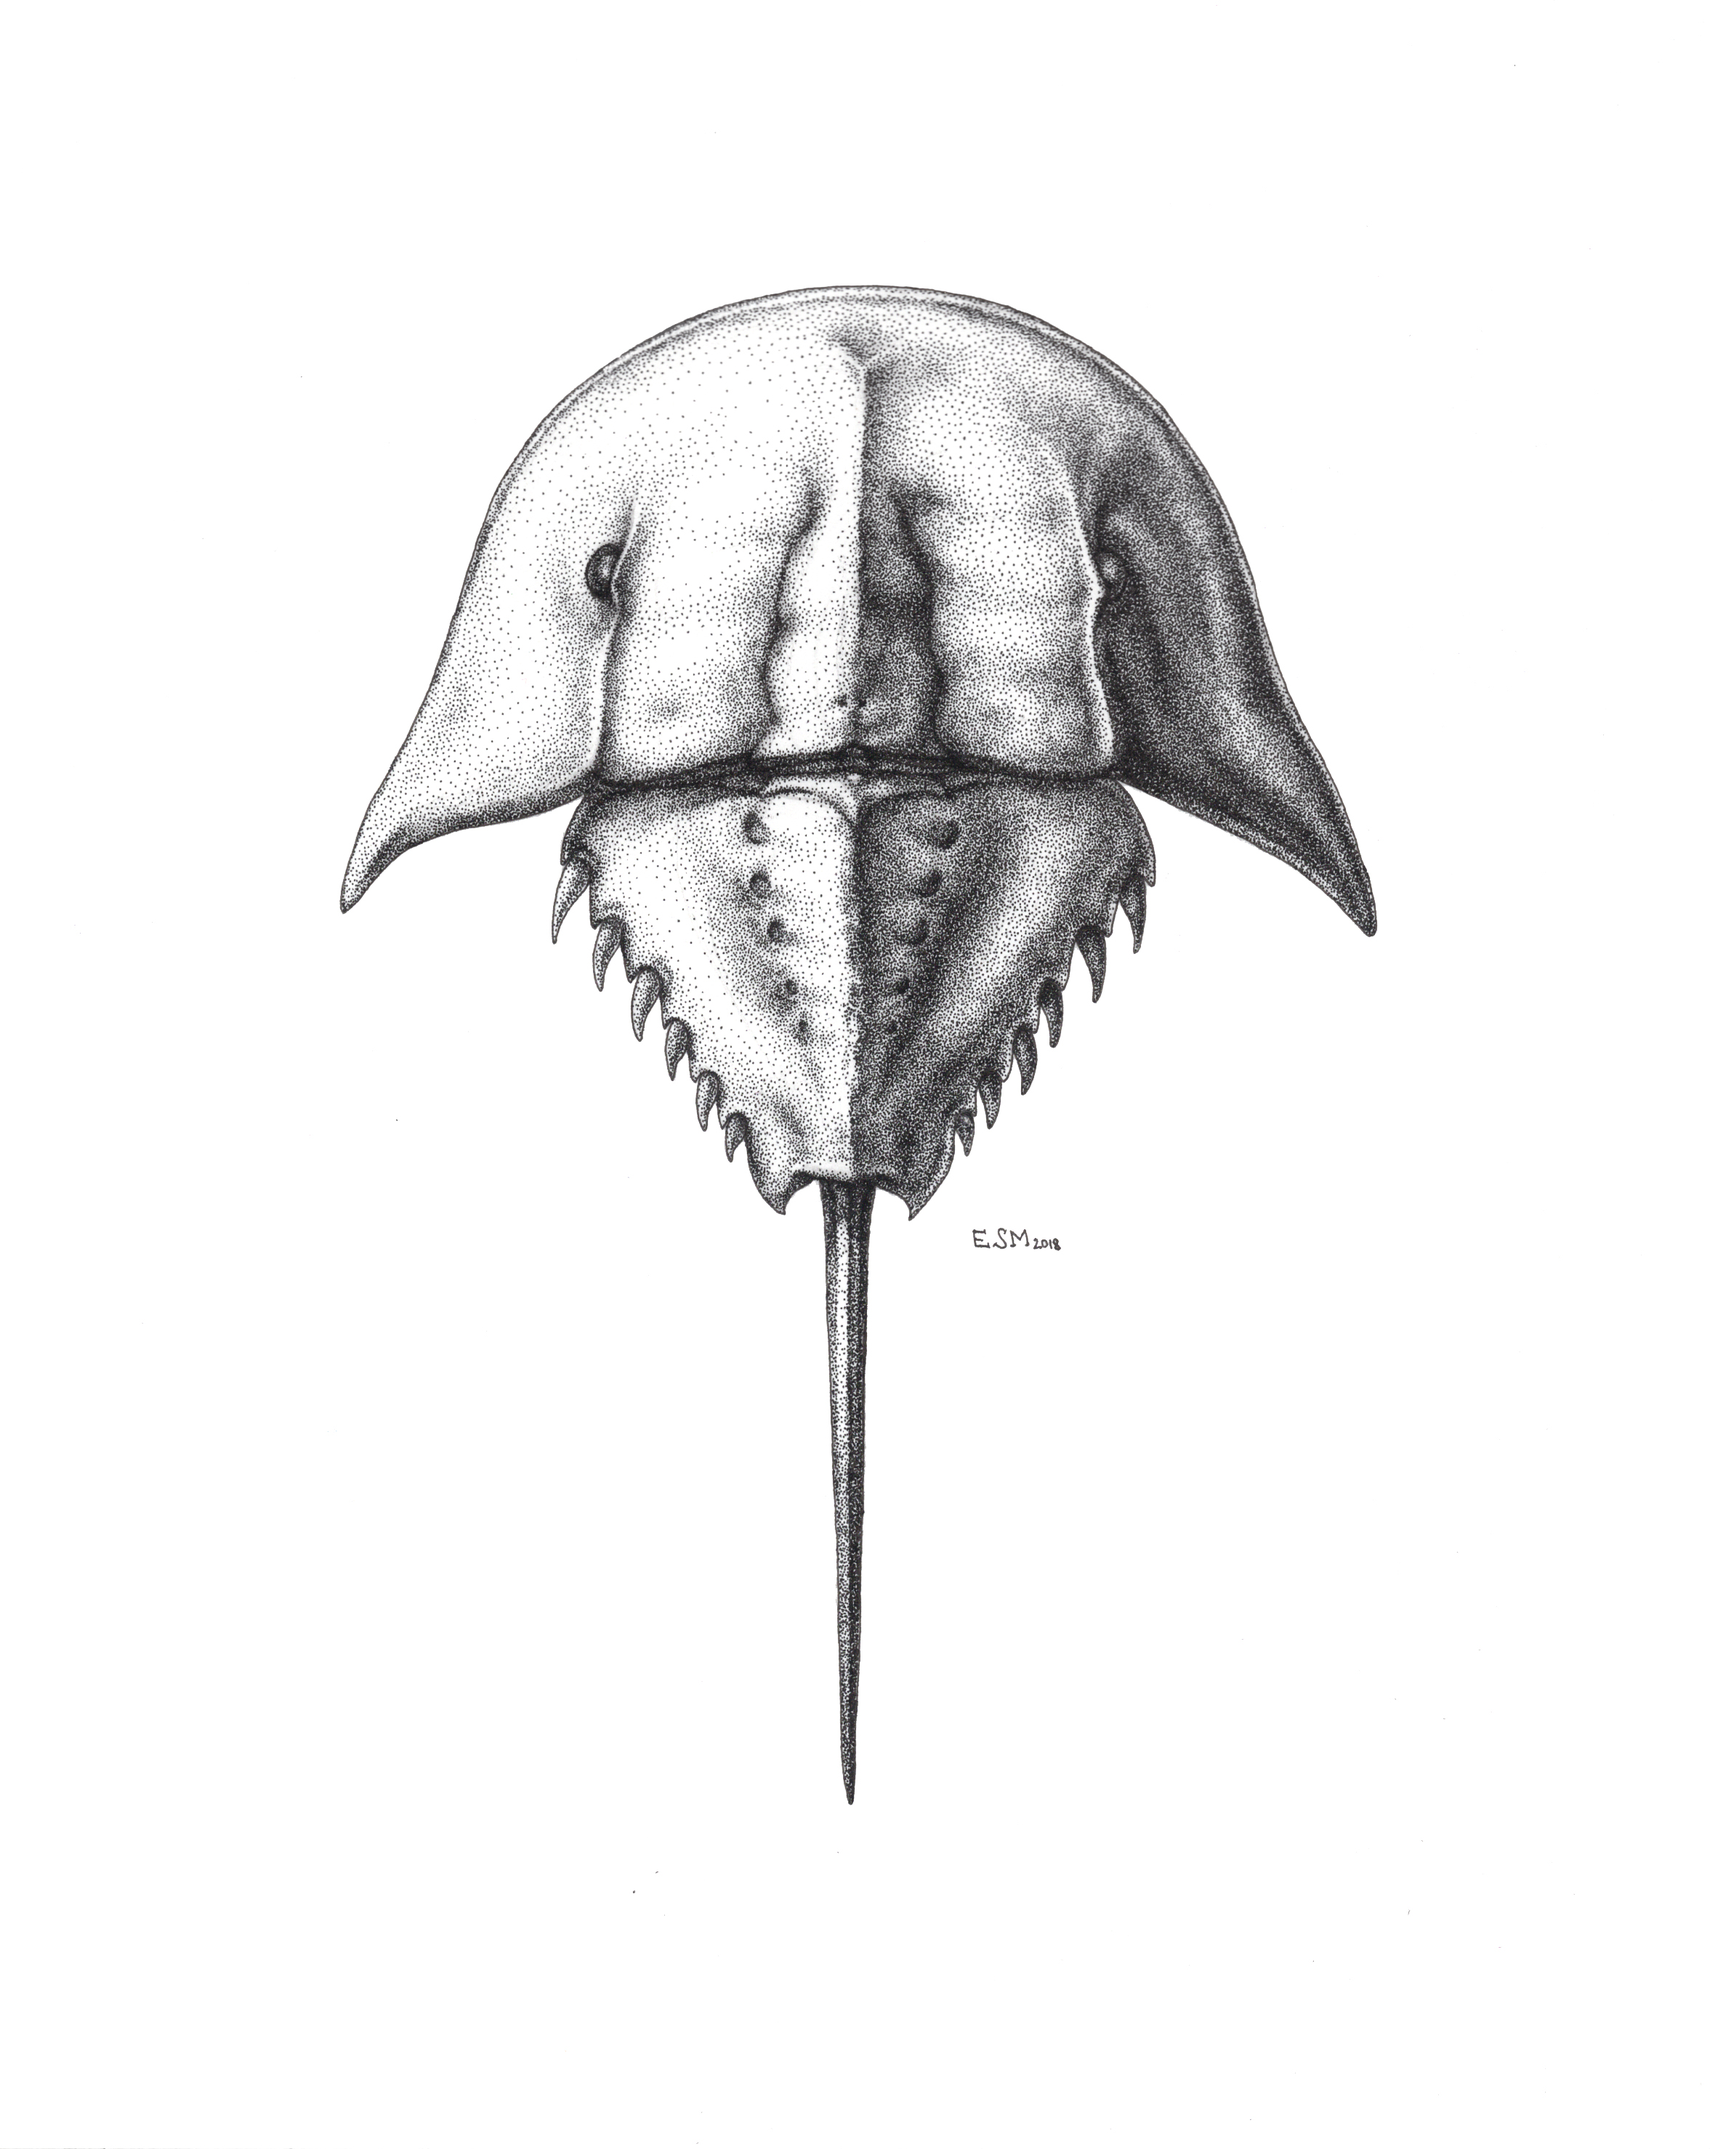
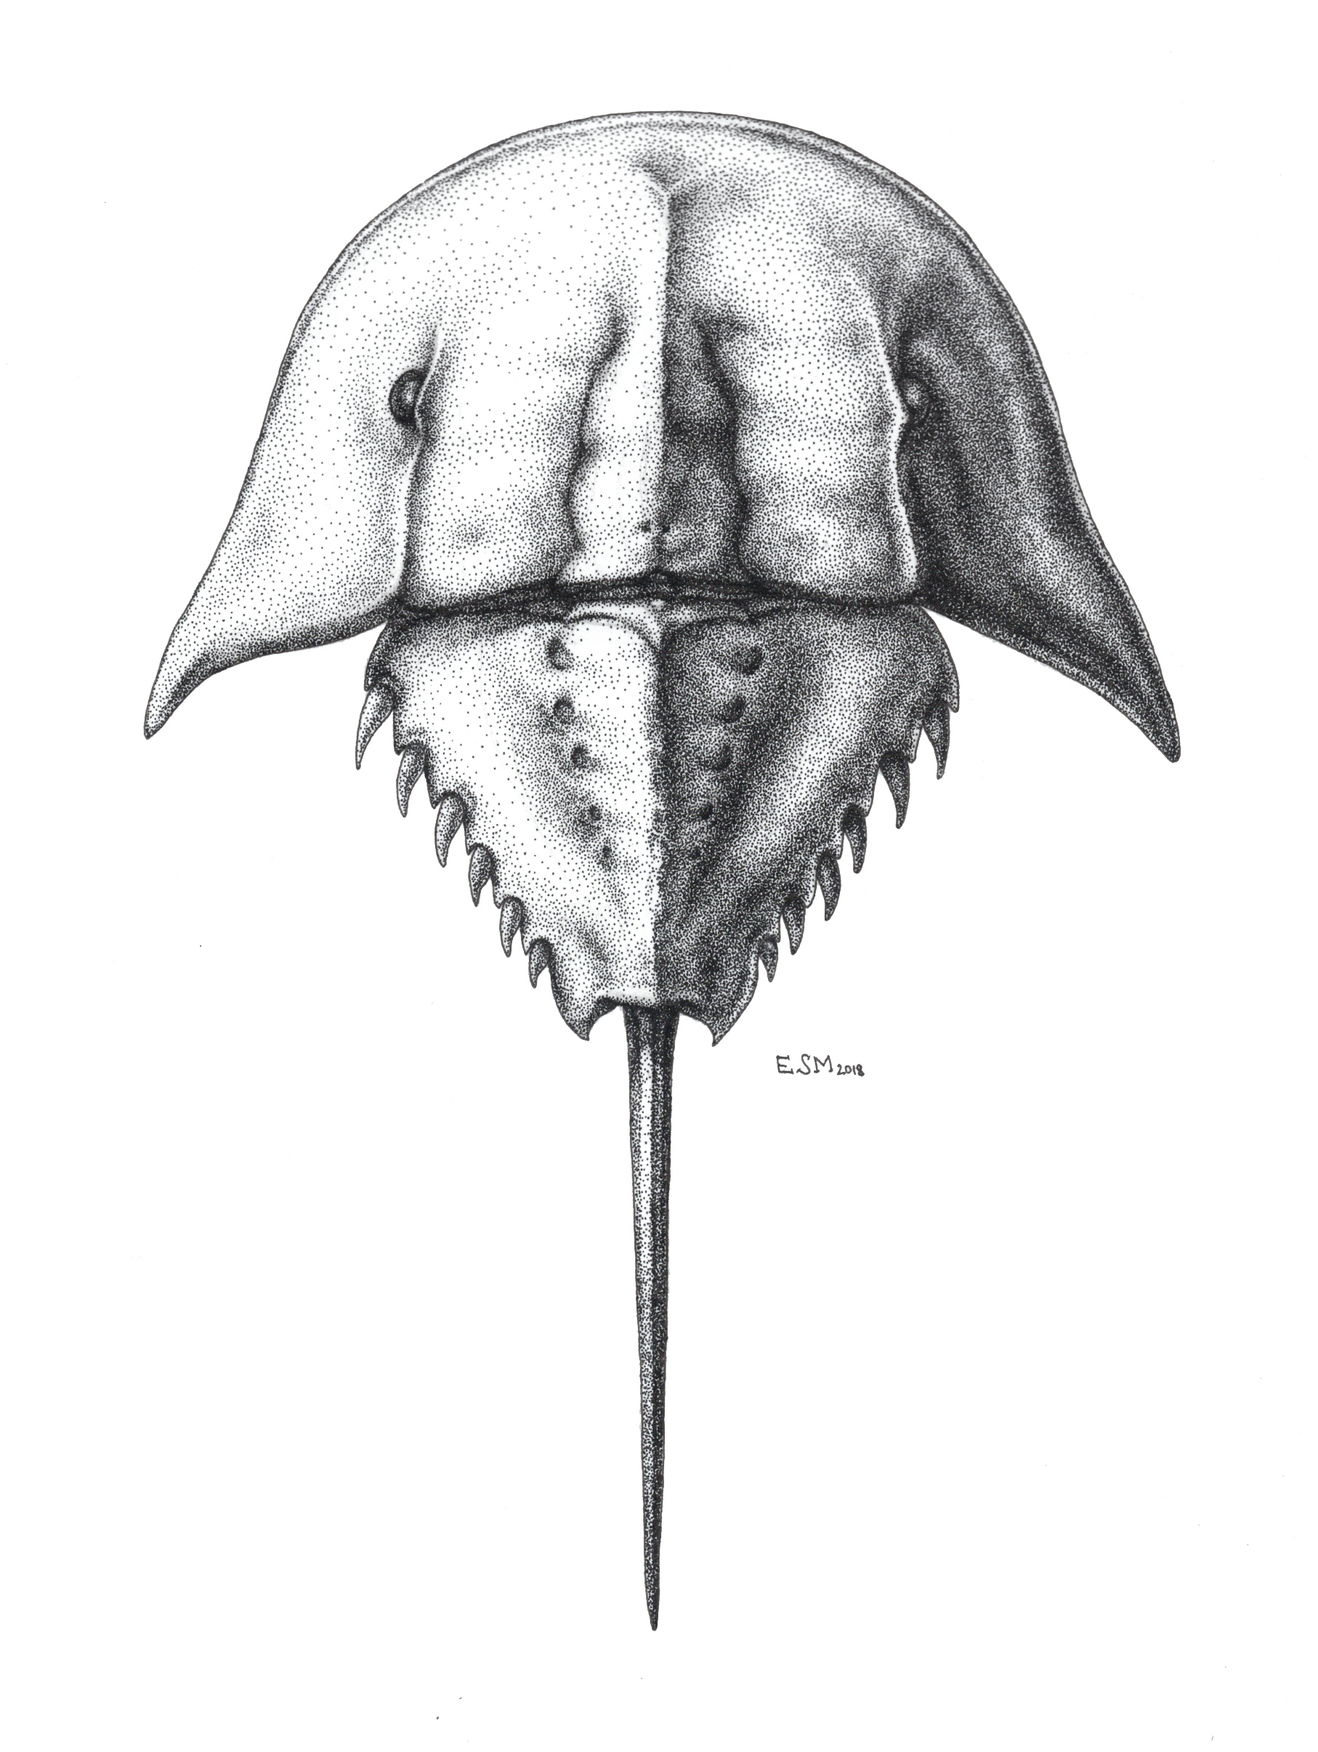
made some edits to photos, etc.

Changed region(s): [[0.0926, 0.0622, 0.8953, 0.9332]]

diff --git a/README.md b/README.md
@@ -31,15 +31,16 @@ I'm interested in studying the evolution of morphological diversity in various s
 I worked at the Yale Peabody Museum of Natural History, where my affinity for dead things served me well...
 
 <center>
-<img src="photos/elissa2.jpg" title="Picking up dead things since my Mom couldn't tell me not to" width="400"/><br></center>
+<img src="photos/elissa2.jpg" title="Picking up dead things since my Mom couldn't tell me not to" width="400"/><br><br>
+</center>
 
 At YPM I managed digitization activities for the Western Interior Seaway NSF TCN Grant. The goal of the grant was to digitize and photograph all the fossil specimens from the Western Interior Seaway in YPM's collection.
 
 <center>
 <p float="left">
   <figcaption>Did you know 300 million year old fossiils could look so good?</figcaption>
-  <img src="photos/amm1.JPG" width="300"/>
-  <img src="photos/amm2.JPG" width="300"/>
+  <img src="photos/amm1.JPG" height="300"/>
+  <img src="photos/amm2.JPG" height="300"/>
 <br></p>
 </center>
 
@@ -69,21 +70,21 @@ I'm  also a scientific illustrator and I love to nerd out about science  communi
 <center>
 <p float="top">
   <figcaption>One of my favorite techniques is stippling</figcaption>
-  <img src="photos/illustration/horseshoe.jpg" width="130"/>
-  <img src="photos/illustration/octo.png" width="250"/>
-  <img src="photos/illustration/pitcher.png" width="105"/>
+  <img src="photos/illustration/horseshoe.jpg" height="300"/>
+  <img src="photos/illustration/octo.png" height="300"/>
+  <img src="photos/illustration/pitcher.png" height="300"/>
   
 <br>
 <figcaption>But my favorite medium has to be watercolor</figcaption>
-  <img src="photos/illustration/flicker.jpg" width="200"/>
-  <img src="photos/illustration/horseshoecrab_ink.png" width="200"/>
-  <img src="photos/illustration/autumn.jpg" width="215"/>
+  <img src="photos/illustration/flicker.jpg" height="300"/>
+  <img src="photos/illustration/horseshoecrab_ink.png" height="300"/>
+  <img src="photos/illustration/autumn.jpg" height="300"/>
 
 <br>
   <figcaption>Unfortunately, I mostly get paid for digital work</figcaption>
-  <img src="photos/illustration/spinalcord.jpg" width="200"/>
-  <img src="photos/illustration/darker.jpeg" width="205"/>
-  <img src="photos/illustration/mosquito.png" width="115"/>
+  <img src="photos/illustration/spinalcord.jpg" height="300"/>
+  <img src="photos/illustration/darker.jpeg" height="300"/>
+  <img src="photos/illustration/mosquito.png" height="300"/>
 </p>
 </center>
 
